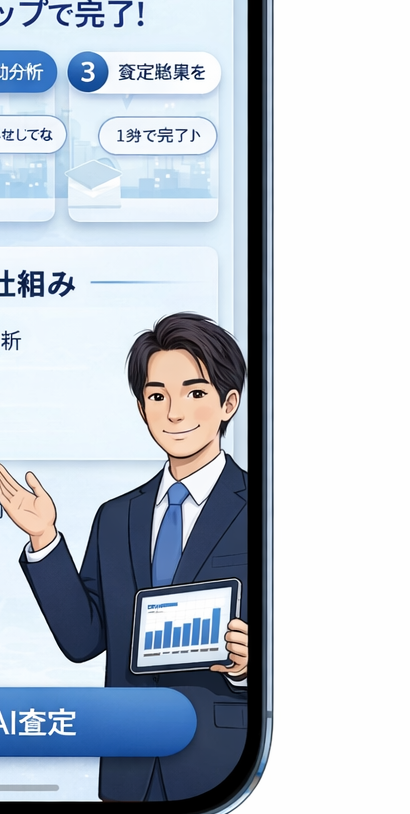
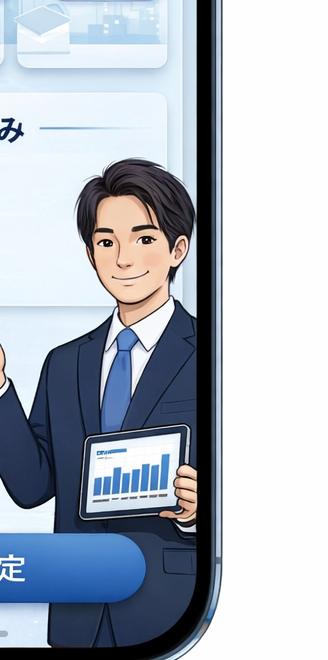
UI調整：ロゴを中央に大きく配置し、人物画像をさらにタイトに切り抜き、全体のバランスを最適化
Made-with: Cursor

diff --git a/app_simple.py b/app_simple.py
@@ -1841,28 +1841,32 @@ st.markdown("""
 
 # 2. UI構築（標準パーツを使用）
 with st.container():
-    # 外枠の開始
-    st.markdown('<div class="hero-wrapper">', unsafe_allow_html=True)
-    
-    # ロゴ（画像に変更）
+    # 1. ロゴを中央に大きく配置
     logo_path = Path(__file__).parent / "assets" / "company_logo.png"
-    if logo_path.exists():
-        st.image(str(logo_path), width=250)  # サイズを大きく (150 -> 250)
-    else:
-        st.markdown('<div class="hero-logo-box"><div class="hero-logo-k">K</div><div class="hero-logo-text">杏栄</div></div>', unsafe_allow_html=True)
+    col_l1, col_l2, col_l3 = st.columns([1, 4, 1])
+    with col_l2:
+        if logo_path.exists():
+            st.image(str(logo_path), use_column_width=True)
+        else:
+            st.markdown('<div style="text-align: center;"><div class="hero-logo-box" style="justify-content: center;"><div class="hero-logo-k">K</div><div class="hero-logo-text">杏栄</div></div></div>', unsafe_allow_html=True)
+    
+    st.markdown('<div style="margin-top: 20px;"></div>', unsafe_allow_html=True)
+
+    # 2. ヒーローセクション（外枠）
+    st.markdown('<div class="hero-wrapper" style="background: linear-gradient(135deg, #f0faff 0%, #e6f5ff 100%); padding: 35px; border: 2px solid #bde0fe;">', unsafe_allow_html=True)
     
     # キャッチコピー
-    st.markdown('<div class="hero-title" style="font-size: 32px; margin-top: 15px;">スマホで最短1分査定！<br>旭川の家の価値、カンタン価格診断</div>', unsafe_allow_html=True)
-    st.markdown('<div class="hero-subtitle" style="font-size: 18px; padding: 6px 20px;">最短60秒・匿名OK・営業なしで安心</div>', unsafe_allow_html=True)
+    st.markdown('<div class="hero-title" style="font-size: 36px; margin-bottom: 20px; text-align: center;">スマホで最短1分査定！<br>旭川の家の価値、カンタン価格診断</div>', unsafe_allow_html=True)
+    st.markdown('<div style="text-align: center; margin-bottom: 30px;"><div class="hero-subtitle" style="font-size: 20px; padding: 8px 25px;">最短60秒・匿名OK・営業なしで安心</div></div>', unsafe_allow_html=True)
     
     # 2カラム：特徴と画像
     col_feat, col_char = st.columns([3, 2])
     
     with col_feat:
-        st.markdown('<div style="margin-top: 10px;">', unsafe_allow_html=True)
-        st.markdown('<div class="feature-item" style="font-size: 18px;"><span class="feature-check">✅</span> 旭川相場データをAIが自動分析</div>', unsafe_allow_html=True)
-        st.markdown('<div class="feature-item" style="font-size: 18px;"><span class="feature-check">✅</span> 地域密着の安心サポート</div>', unsafe_allow_html=True)
-        st.markdown('<div class="feature-item" style="font-size: 18px;"><span class="feature-check">✅</span> 旭川の相場に最適化</div>', unsafe_allow_html=True)
+        st.markdown('<div style="margin-top: 20px; padding-left: 20px;">', unsafe_allow_html=True)
+        st.markdown('<div class="feature-item" style="font-size: 20px; margin-bottom: 15px;"><span class="feature-check">✅</span> 旭川相場データをAIが自動分析</div>', unsafe_allow_html=True)
+        st.markdown('<div class="feature-item" style="font-size: 20px; margin-bottom: 15px;"><span class="feature-check">✅</span> 地域密着の安心サポート</div>', unsafe_allow_html=True)
+        st.markdown('<div class="feature-item" style="font-size: 20px; margin-bottom: 15px;"><span class="feature-check">✅</span> 旭川の相場に最適化</div>', unsafe_allow_html=True)
         st.markdown('</div>', unsafe_allow_html=True)
         
     with col_char:
